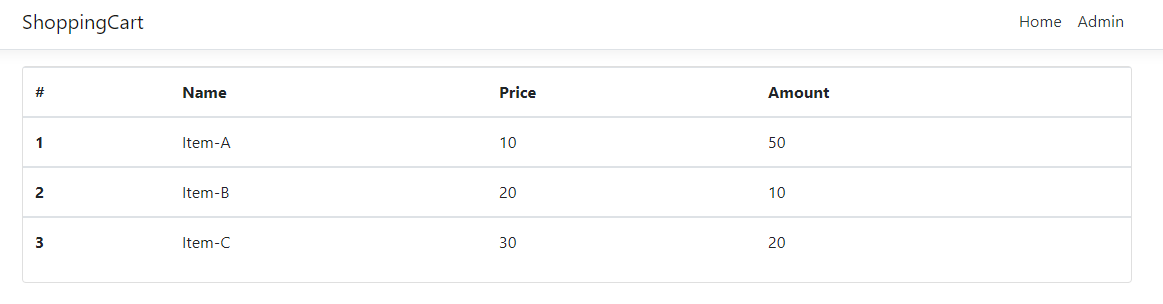
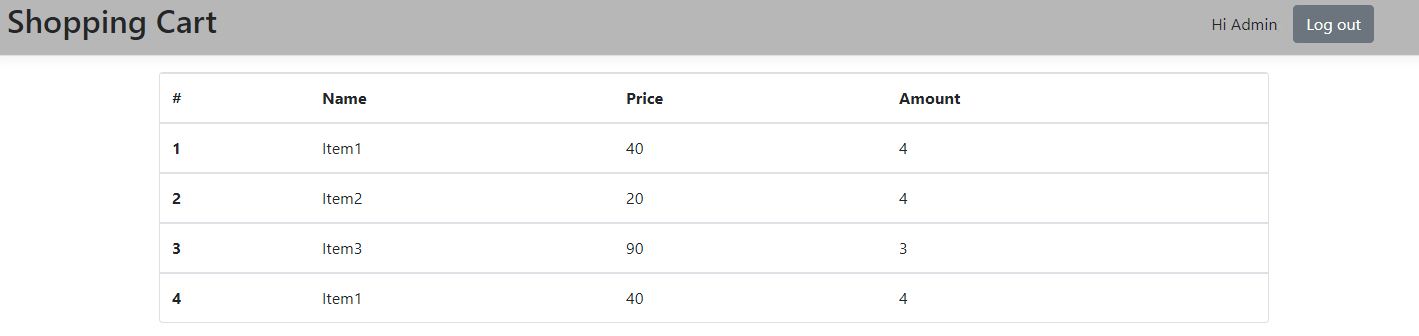
更新readme

diff --git a/ShoppingCart/ClientApp/src/app/core/guards/auth.guard.ts b/ShoppingCart/ClientApp/src/app/core/guards/auth.guard.ts
@@ -1,0 +1,36 @@
+import { Injectable } from '@angular/core';
+import { CanActivate, CanLoad, Route, UrlSegment, ActivatedRouteSnapshot, RouterStateSnapshot, UrlTree, Router } from '@angular/router';
+import { Observable } from 'rxjs';
+import { UserService } from '../services/user.service';
+
+@Injectable({
+  providedIn: 'root'
+})
+export class AuthGuard implements CanActivate, CanLoad {
+  constructor(private userService: UserService,
+    private router: Router) {
+
+  }
+
+  canActivate(
+    next: ActivatedRouteSnapshot,
+    state: RouterStateSnapshot): Observable<boolean | UrlTree> | Promise<boolean | UrlTree> | boolean | UrlTree {
+    return this.checkLogin(state.url);
+  }
+  canLoad(
+    route: Route,
+    segments: UrlSegment[]): Observable<boolean> | Promise<boolean> | boolean {
+    return this.checkLogin(`/${route.path}`);
+  }
+
+  checkLogin(url: string) {
+    let name = sessionStorage.getItem("fullName");
+    if ((url.toLowerCase() == "/home" && name == "User")
+      || (url.toLowerCase() == "/admin" && name == "Admin"))
+      return true;
+    else {
+      this.router.navigate(['/']);
+      return false;
+    }
+  }
+}

diff --git a/ShoppingCart/ClientApp/src/app/modules/nav-menu/nav-menu.component.html b/ShoppingCart/ClientApp/src/app/modules/nav-menu/nav-menu.component.html
@@ -1,5 +1,6 @@
 <header>
   <nav class="navbar navbar-expand-sm navbar-toggleable-sm navbar-dark border-bottom box-shadow mb-3">
+    <h2>Shopping Cart</h2>
     <div class="container">
       <div *ngIf="userService.token">Hi {{userService.fullName}}</div>
       <input *ngIf="userService.token" type="button" class="btn btn-secondary ml-3" value="Log out" (click)="logout()"/>

diff --git a/readme.md b/readme.md
@@ -1,16 +1,22 @@
 # 購物車
 
 ## 概述
-以 net core 3.1、Angular實作購物車功能，DB 使用MS SQL搭配Dapper。  
-目前僅只是初版，資料結構、資料流等設計未完全，功能僅實作了兩個畫面，一個是使用者下單的畫面：
-![home](./images/home.png)
-另一個是管理者可以看到所有訂單的列表
+以`net core 3.1`、`Angular`實作購物車功能。  
+資料串接以`Dapper`連接`MS SQL`，後端資料結構主要是建立IRepository與Repository去處理核心邏輯  
+前端做了基本的登入畫面，後端Controller以JWT Token做驗證，讓一般使用者無法取得管理員畫面的資料  
+畫面如下：  
+使用者登入畫面
+![login](./images/login.png)  
+一般使用者操作畫面
+![home](./images/home.png)  
+管理者查看訂單列表
 ![admin](./images/admin.png)
 
-## To-Do
-1. 調整資料結構
-2. 加入log與前後端錯誤處理
-3. 調整管理者介面
-4. 加入登入驗證機制
+## 前置作業
+可執行`scripts`資料夾內的sql指令來建立table
+
+## ToDo
+1. 加入log與前後端錯誤處理
+2. 調整欄位schema與呈現介面
 
 
